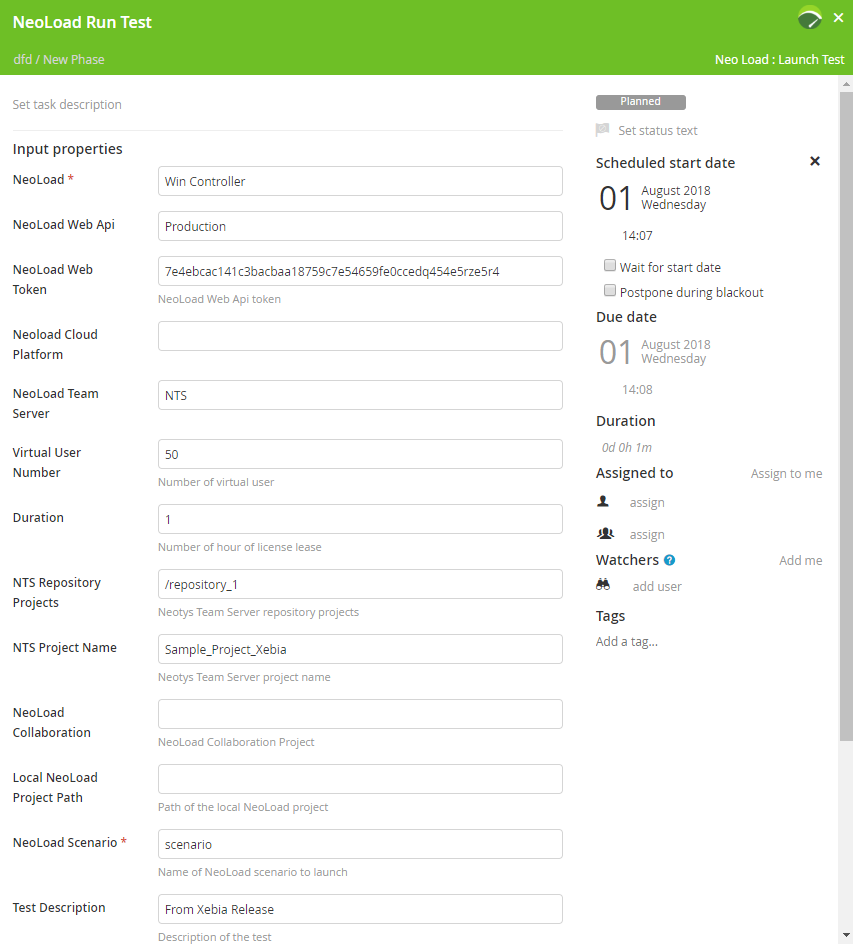
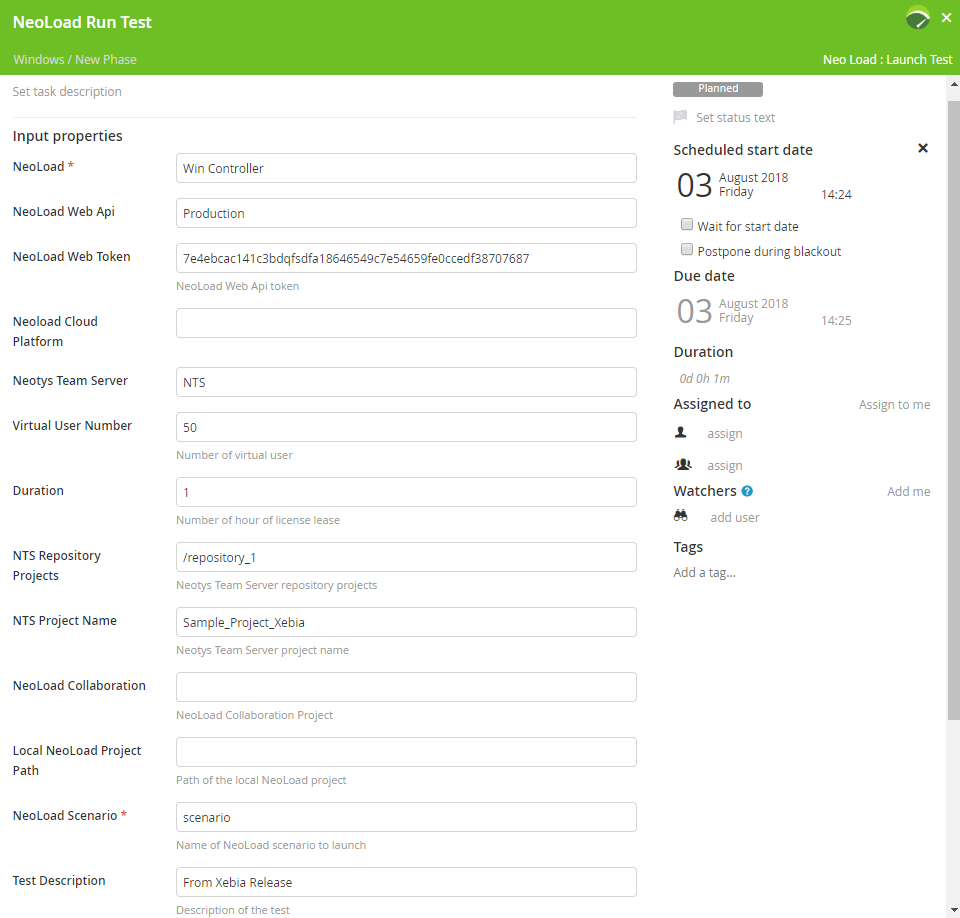
Change label: NeoLoad Team Server to Neotys Team Server

diff --git a/src/test/java/com/neotys/xebialabs/xl/NeoLoadSharedConfigTest.java b/src/test/java/com/neotys/xebialabs/xl/NeoLoadSharedConfigTest.java
@@ -14,7 +14,7 @@ public class NeoLoadSharedConfigTest extends BaseTest {
 	private static final String NEO_LOAD_CLOUD_CONFIGURATION_TEST = "NeoLoad Cloud Configuration Test";
 	private static final String NTS_COLLABORATION_TEST = "NTS Collaboration Test";
 	private static final String NEO_LOAD_WINDOWS = "NeoLoad Windows";
-	private static final String NEO_LOAD_TEAM_SERVER = "NeoLoad Team Server";
+	private static final String NEOTYS_TEAM_SERVER = "Neotys Team Server";
 	private static final String NEO_LOAD_WEB_PROD = "NeoLoad Web PROD";
 	private static final String NEO_LOAD_COLLABORATION = "NeoLoad Collaboration";
 	private static final String NEO_LOAD_CONTROLLER = "NeoLoad Controller";
@@ -75,9 +75,9 @@ public class NeoLoadSharedConfigTest extends BaseTest {
 	public void openConfigurationNeoloadTeamServer() {
 		MainMenu.clickMenu(SETTINGS);
 		SubMenu.clickSubMenu(SHARED_CONFIGURATION);
-		SharedConfigurationPage.openSharedConfiguration(NEO_LOAD_TEAM_SERVER);
-		SharedConfigurationPropertiesPage.checkSharedConfigurationHeader(NEO_LOAD_TEAM_SERVER);
-		SharedConfigurationPropertiesPage.setEditFieldBySequence(1, NEO_LOAD_TEAM_SERVER);
+		SharedConfigurationPage.openSharedConfiguration(NEOTYS_TEAM_SERVER);
+		SharedConfigurationPropertiesPage.checkSharedConfigurationHeader(NEOTYS_TEAM_SERVER);
+		SharedConfigurationPropertiesPage.setEditFieldBySequence(1, NEOTYS_TEAM_SERVER);
 		SharedConfigurationPropertiesPage.setEditFieldBySequence(2, "http://nts:9999/nts/");
 		SharedConfigurationPropertiesPage.setEditFieldBySequence(3, login);
 		SharedConfigurationPropertiesPage.setEditFieldBySequence(4, password);
@@ -141,7 +141,7 @@ public class NeoLoadSharedConfigTest extends BaseTest {
 		deleteConfig(NEO_LOAD_CLOUD_CONFIGURATION_TEST);
 		deleteConfig(NTS_COLLABORATION_TEST);
 		deleteConfig(NEO_LOAD_WINDOWS);
-		deleteConfig(NEO_LOAD_TEAM_SERVER);
+		deleteConfig(NEOTYS_TEAM_SERVER);
 		deleteConfig(NEO_LOAD_WEB_PROD);
 	}
 
